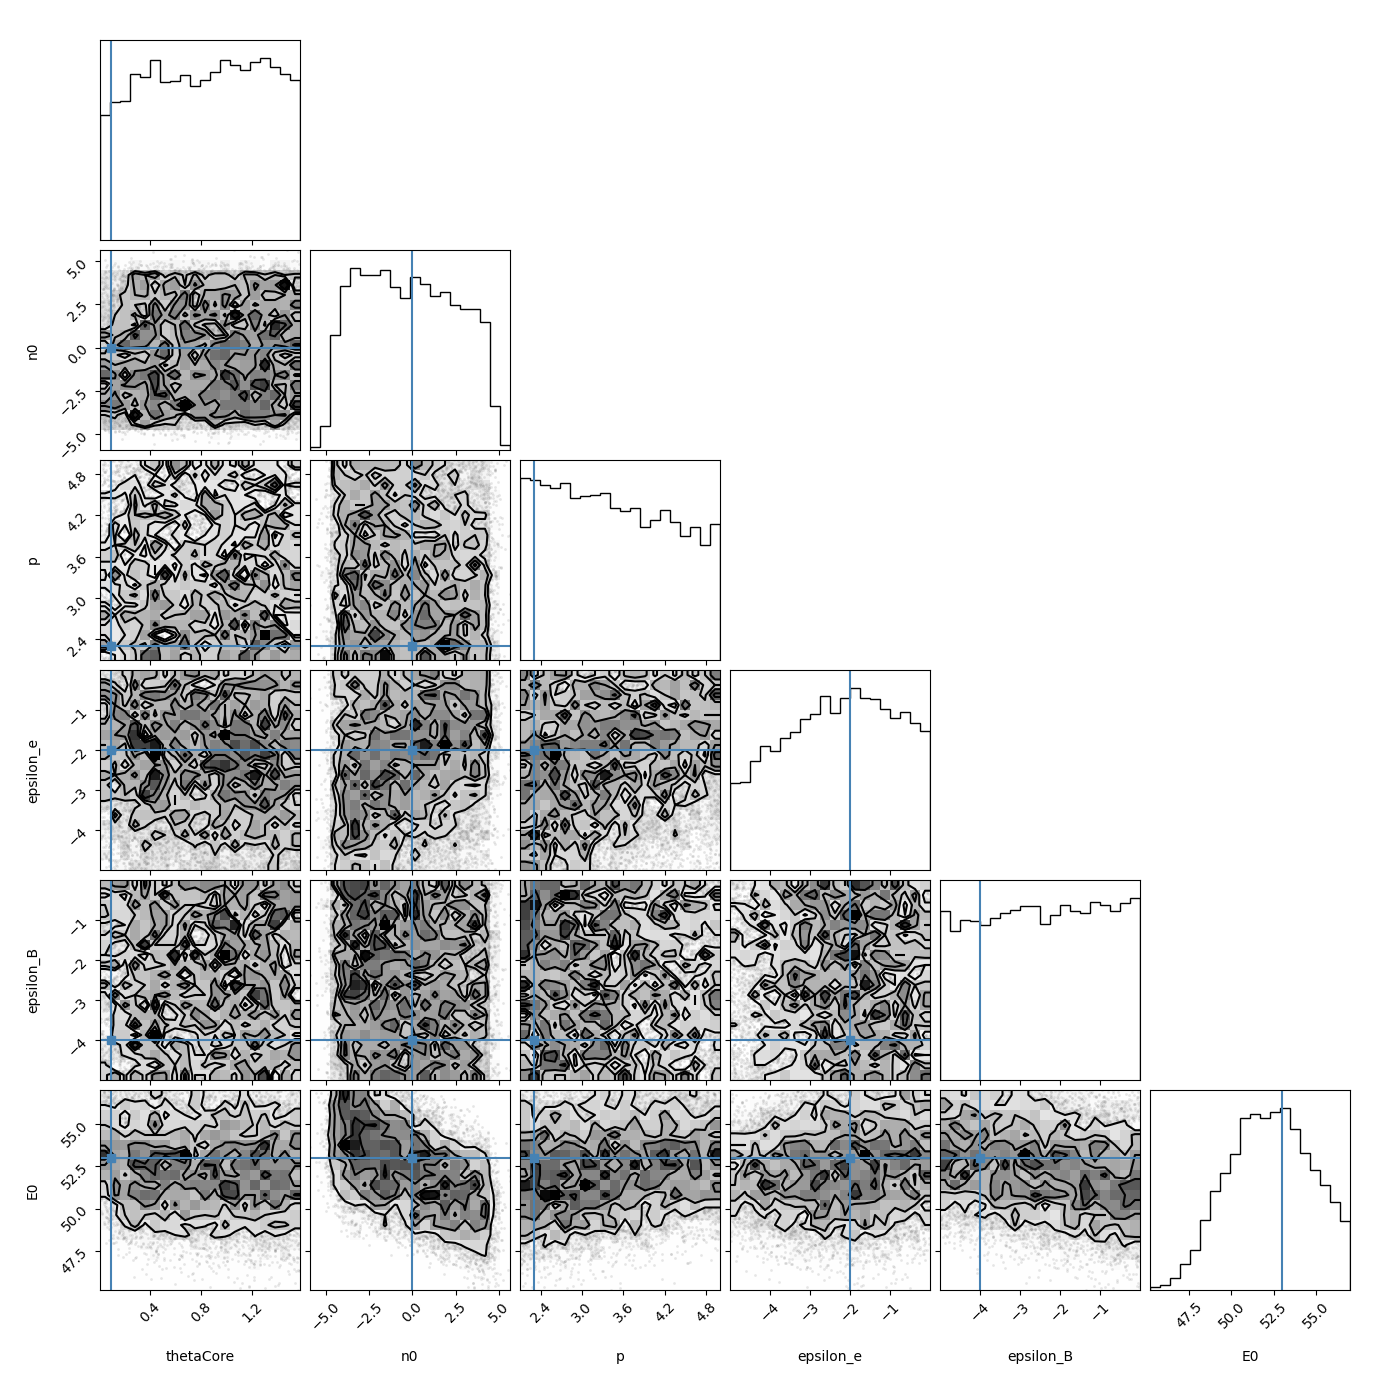
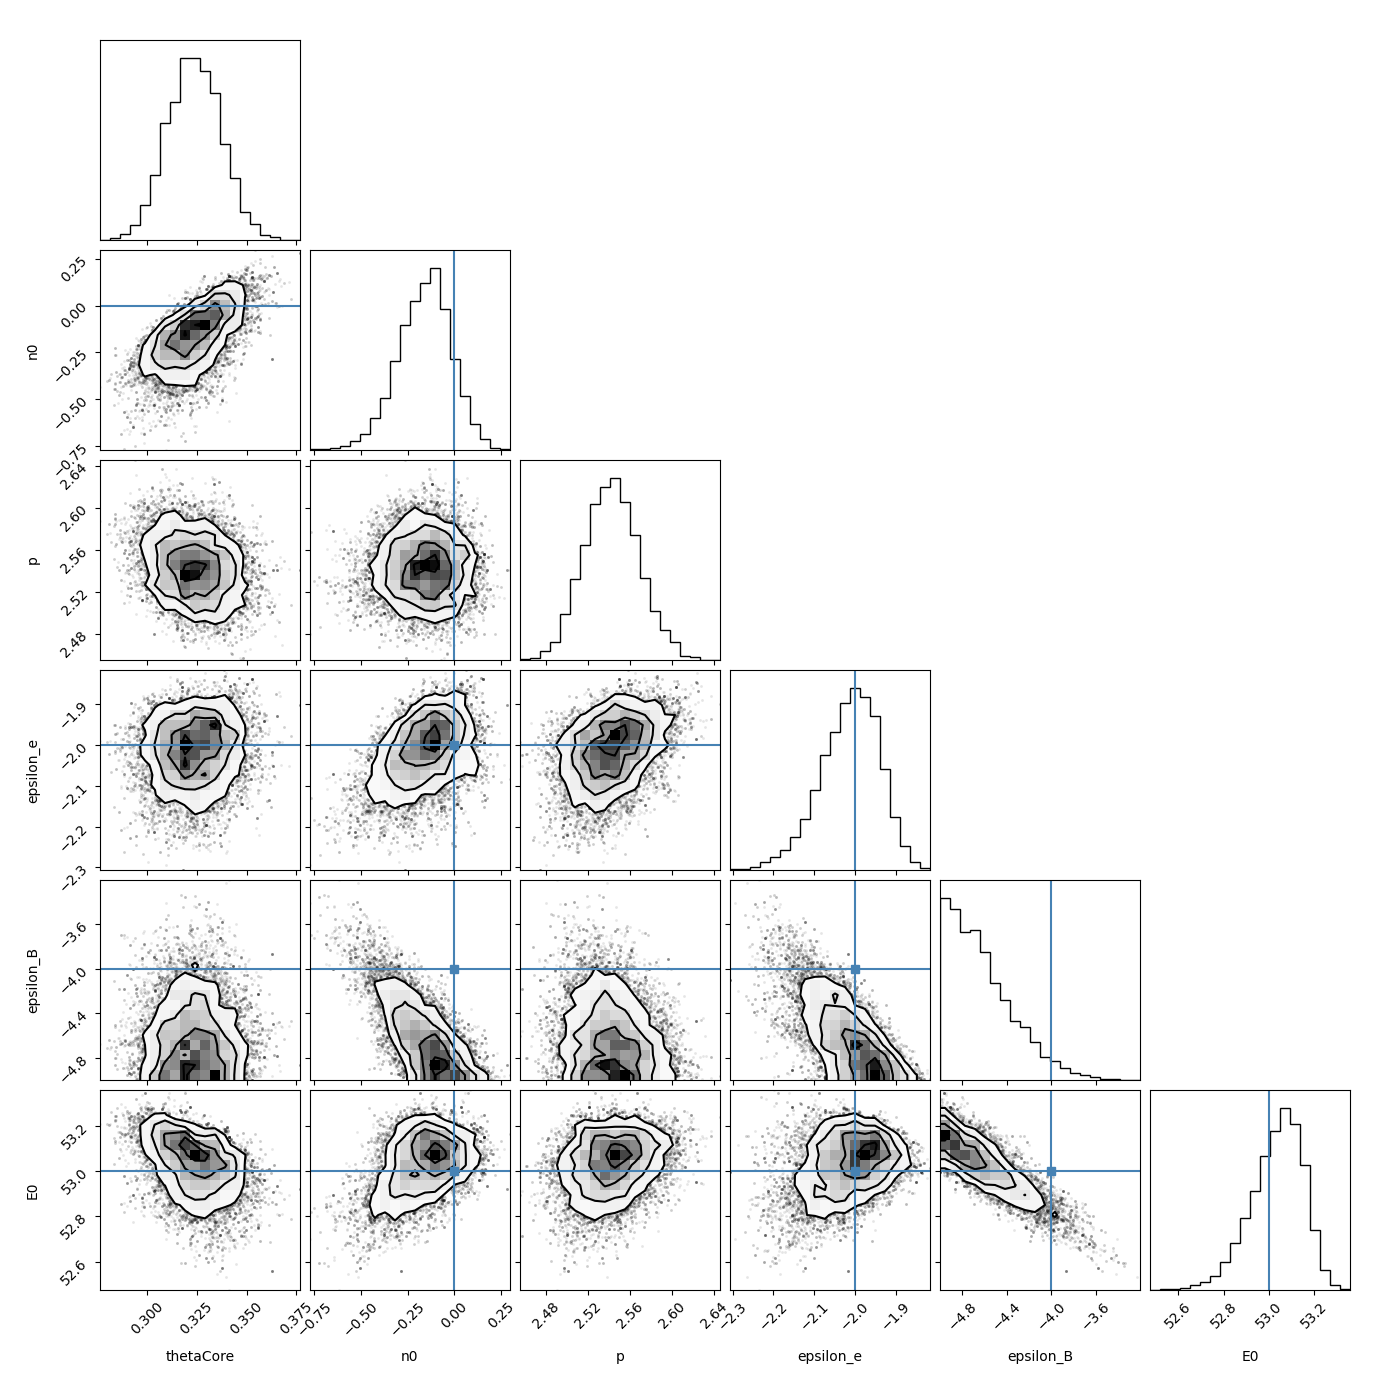
quick changes to log likelihood function

diff --git a/sampling_testing/run_sampling.py b/sampling_testing/run_sampling.py
@@ -14,13 +14,13 @@ from functools import partial
 import concurrent.futures
 import sampler as splr
     
-initial = np.array([0.2,-2,2.5,-3,-3,55])
+initial = np.array([0.3,-1,3,-3,-3,55])
 
 nu = np.geomspace(1e0, 1e20, num=7)
 t = np.geomspace(1e-1 * grb.day2sec, 1e3 * grb.day2sec, num=17)
 
 x = [t,nu]
-print(nu[6])
+#print(nu[6])
 F = np.array(splr.Flux(x,0.1,0,2.3,-2,-4,53,0.0,1,1e26,0.01))
 time_error_1d = 0.05*t
 spec_error_1d = 0.05*nu
@@ -34,17 +34,14 @@ err_flux = abs(0.05*F)
 err = [err_flux,err_time,err_spec]
 truth = [0.1,0.0,2.3,-2,-4,53]
 
-fig, ax = plt.subplots(1, 1)
-ax.set(xscale='log', xlabel=r'$t$ (s)', ylabel=r'$\log_{10}(F_\nu)$ (mJy)')
-#for freq_idx, nu_value in enumerate(nu):
-ax.errorbar(t, F_noise[:, 1],xerr=err_time[:, 1],yerr=err_flux[:, 1], fmt='.', label=f'{10:.2e} Hz')
-plt.show()
+
 #if __name__ == "__main__":
-    #run_parallel_optimization(x,F_noise,initial,yerr,processes=6)
-#run_optimization(x,F_noise,initial,yerr)
-"""
+    #splr.run_parallel_optimization(x,F_noise,initial,err,processes=4)
+#splr.run_optimization(x,F_noise,initial,err)
+
+
 if __name__ == "__main__":
-    splr.run_sampling(x,F,initial,err,steps=30000,processes=6,genfile=1,filename='./data/err_3D.h5')
+    splr.run_sampling(x,F,initial,err,steps=1000,processes=6,genfile=1,filename='./data/err_3D.h5')
 
 
     file_path = './data/err_3D.h5'
@@ -80,4 +77,3 @@ if __name__ == "__main__":
     fig2 = corner.corner(flat_samples, labels=labels, truths=truth)
     fig2.savefig('./graph/err_3D_contour.png')
     plt.close(fig2)
-    """

diff --git a/sampling_testing/sampler.py b/sampling_testing/sampler.py
@@ -58,6 +58,9 @@ def log_likelihood(theta, x, y, err, thetaObs, xi_N, d_L, z):
     if not np.all(np.isfinite(model)):
         raise ValueError("Model returned non-finite values.")
     
+    time = np.tile(x[0][:, np.newaxis], (1, len(x[1])))
+    spec = np.tile(x[1], (len(x[0]), 1))
+    
     model = np.array(model)
     y = np.array(y)
     err_flux = np.array(err_flux)
@@ -67,17 +70,19 @@ def log_likelihood(theta, x, y, err, thetaObs, xi_N, d_L, z):
     # Create a mask for non-NaN values in y
     mask = ~np.isnan(y)
     y = y[mask]
+    time = time[mask]
+    spec = spec[mask]
     err_flux = err_flux[mask]
     err_time = err_time[mask]
     err_spec = err_spec[mask]
     model = model[mask]
     
     # Calculate the combined error term (flux, time, and spectral errors)
-    sigma2 = err_flux**2 + err_time**2 + err_spec**2 + model**2
+    sigma2 = err_flux**2 + (y*err_time/time)**2 + (y*err_spec/spec)**2 + model**2
     
     # Optional penalty for parameters outside certain bounds
     penalty_factor = 2 * np.where(abs(n0) > 4, (abs(n0) - 4) ** 2, 0)
-    
+    #print(-0.5 * np.sum(np.exp(abs(y - model)) * (y - model)**2 / sigma2) - penalty_factor)
     # Calculate the negative log-likelihood
     return -0.5 * np.sum(np.exp(abs(y - model)) * (y - model)**2 / sigma2) - penalty_factor
 
